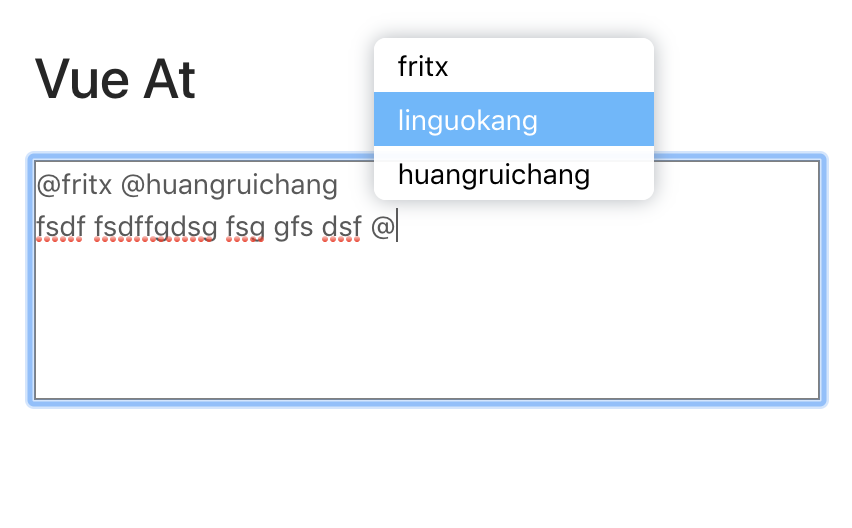
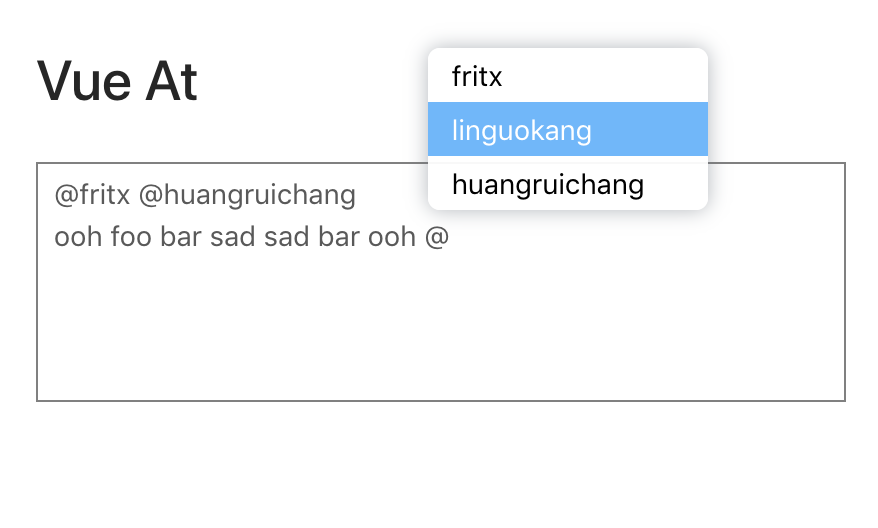
feat: vue demo tweak & 404 redirect

Changed region(s): [[0.0305, 0.0606, 0.9765, 0.7879], [0.061, 0.1212, 0.2441, 0.2121]]

diff --git a/src/AppRouter.tsx b/src/AppRouter.tsx
@@ -1,13 +1,23 @@
 import React from 'react';
-import { HashRouter as Router, Route } from 'react-router-dom';
+import {
+  HashRouter as Router,
+  Route,
+  Switch,
+  Redirect,
+} from 'react-router-dom';
 import { Gallery } from './gallery';
 import { Playground } from './playground';
 
 function AppRouter() {
   return (
     <Router>
-      <Route path="/" exact component={Gallery} />
-      <Route path="/playground/:file?" component={Playground} />
+      <Switch>
+        <Route path="/" exact component={Gallery} />
+        <Route path="/playground/:file" component={Playground} />
+        <Route path="*">
+          <Redirect to="/" />
+        </Route>
+      </Switch>
     </Router>
   );
 }

diff --git a/public/code/vue-at.js b/public/code/vue-at.js
@@ -1,5 +1,5 @@
-// await loadJs('https://unpkg.com/vue') // sometimes broken
-await loadJs('https://cdn.jsdelivr.net/npm/vue@2.6.11/dist/vue.min.js')
+// await loadJs('https://cdn.jsdelivr.net/npm/vue@2.6.11/dist/vue.min.js')
+await loadJs('https://unpkg.com/vue@2.6.11/dist/vue.min.js')
 
 // await loadJs('https://unpkg.com/vue-at')
 await loadJsForceUmd({
@@ -10,7 +10,7 @@ await loadJsForceUmd({
 
 appendCss(`
 .container { padding: 20px }
-.editor { height:120px; border:solid 1px gray; white-space: pre-wrap }
+.editor { padding:4px 8px; height:120px; border:solid 1px gray; white-space:pre-wrap }
 `)
 
 let App = {

diff --git a/public/code/vue-render-h.js b/public/code/vue-render-h.js
@@ -1,5 +1,5 @@
-// await loadJs('https://unpkg.com/vue') // sometimes broken
-await loadJs('https://cdn.jsdelivr.net/npm/vue@2.6.11/dist/vue.min.js')
+// await loadJs('https://cdn.jsdelivr.net/npm/vue@2.6.11/dist/vue.min.js')
+await loadJs('https://unpkg.com/vue@2.6.11/dist/vue.min.js')
 
 appendCss(`
 .container { padding: 20px }

diff --git a/public/code/vue-string-template.js b/public/code/vue-string-template.js
@@ -1,5 +1,5 @@
-// await loadJs('https://unpkg.com/vue') // sometimes broken
-await loadJs('https://cdn.jsdelivr.net/npm/vue@2.6.11/dist/vue.min.js')
+// await loadJs('https://cdn.jsdelivr.net/npm/vue@2.6.11/dist/vue.min.js')
+await loadJs('https://unpkg.com/vue@2.6.11/dist/vue.min.js')
 
 appendCss(`
 .container { padding: 20px }
